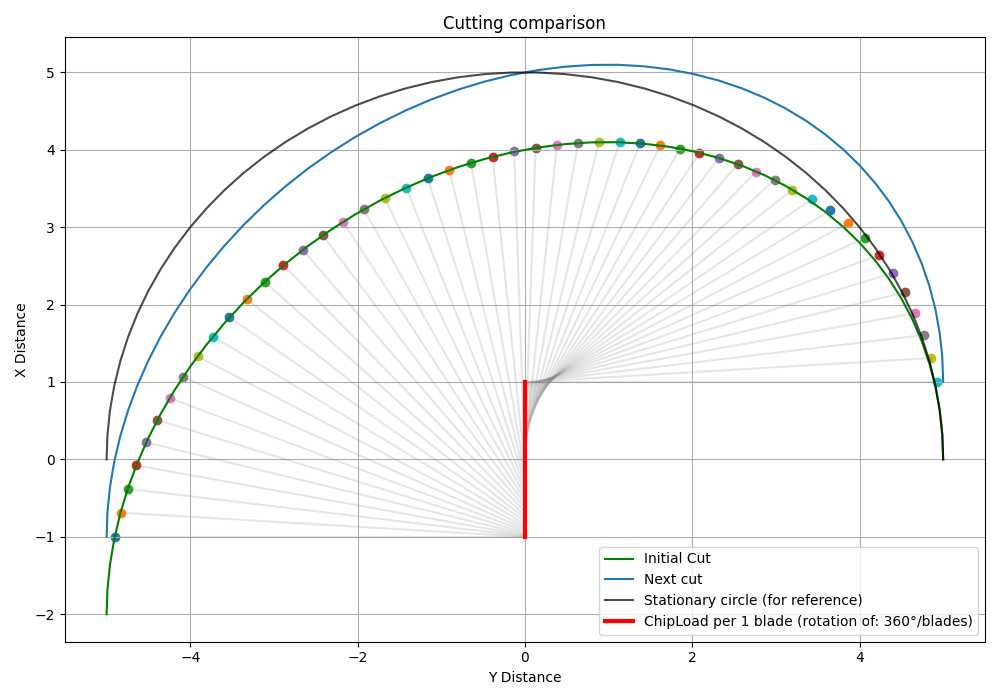
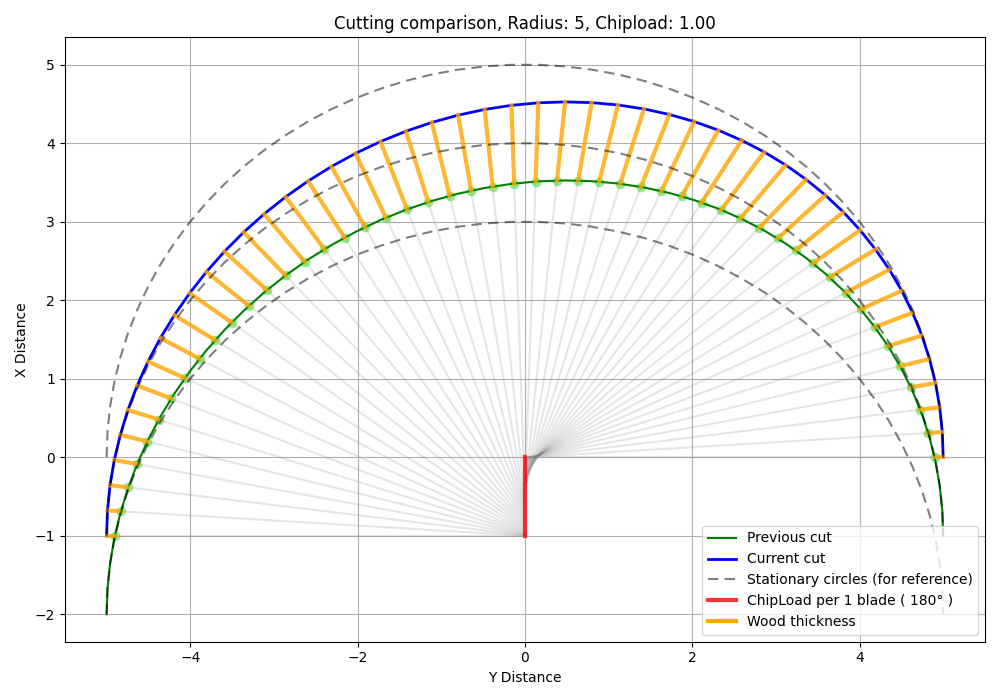
Fix numeric stability. More readable plots for cut model

diff --git a/CirclesOffset.py b/CirclesOffset.py
@@ -106,11 +106,13 @@ def CompareCirlceCost():
 
 def solve(r, ch, a, b, *, STEP=0.001, originX=None, wRad=None):
     if originX is None:
-        minR = np.sin(wRad - np.deg2rad(10)) * r
-        X = np.arange(minR, r + 0.001, STEP, dtype=np.double)
+        initR = np.sin(wRad) * r
+        first = np.clip(initR - 2 / r, -r, r)
+        end = np.clip(initR + 2 / r, -r, r)
+        X = np.arange(first, end, STEP, dtype=np.double)
     else:
         # print(f"Origin: {originX}")
-        X = np.linspace(originX - 2, originX + 2, 10000, dtype=np.double)
+        X = np.linspace(originX - r / 4.5, originX + r / 4.5, 20000, dtype=np.double)
         # X = np.linspace(originX - 1, originX +1, 200)
     # x2 = np.linspace(-90, 90, NUM)
     y1 = a * X + b
@@ -123,7 +125,10 @@ def solve(r, ch, a, b, *, STEP=0.001, originX=None, wRad=None):
 
     # x2 = np.sin(wRad) * r
     # wRad = np.arcsin(wRad)
-    y2 = np.cos(wRad) * r + np.sin(wRad) * ch - ch
+    Line1y = np.cos(wRad) * r + np.sin(wRad) * (ch / 2) - ch / 2 - ch
+    # y2 = np.cos(wRad) * r + np.sin(wRad) * ch - ch / 2
+    y2 = Line1y
+    # plt.scatter(wDeg / 90 * Radius, y2)
     diff = np.abs(y2 - y1).astype(float)
     diff[np.isnan(diff)] = r
     # plt.plot(wDeg)
@@ -145,13 +150,17 @@ def solve(r, ch, a, b, *, STEP=0.001, originX=None, wRad=None):
 
 
 def findCutDistance(wRad, radius, Chip):
-    "P2 is Above"
+    """"""
+    "P1 is previous cut"
+    "P2 is current cut"
     P2x = np.sin(wRad) * radius
-    P2y = np.cos(wRad) * radius + np.sin(wRad) * Chip
+    P2y = np.cos(wRad) * radius + np.sin(wRad) * (Chip / 2) - Chip / 2
+    # plt.scatter(P2x, P2y)
 
     "P0 is moving center"
     P0x = wRad * 0
-    P0y = np.sin(wRad) * Chip
+    # P0y = np.sin(wRad) * Chip / 2 - Chip / 2
+    P0y = (np.sin(wRad) - 1) * Chip / 2
     # plt.scatter(P0x, P0y)
     # plt.scatter(P2x, P2y)
     # plt.plot([P0x, P2x], [P0y, P2y], color='gray', alpha=0.5)
@@ -174,9 +183,10 @@ def findCutDistance(wRad, radius, Chip):
     # P1x = (P1y - b) / a
     P1x, P1y = solve(radius, Chip, a, b, wRad=wRad)
     plt.plot([P0x, P1x], [P0y, P1y], color='gray', alpha=0.2)
-    # P1x, P1y = solve(radius, Chip, a, b, originX=P1x)
-    plt.scatter(P1x, P1y)
-    # plt.plot([P0x, P1x], [P0y, P1y], color='green', alpha=0.2)
+    P1x, P1y = solve(radius, Chip, a, b, originX=P1x)
+
+    plt.scatter(P1x, P1y, color='lightgreen')
+    plt.plot([P1x, P2x], [P1y, P2y], color='orange', alpha=0.8, linewidth=3)
 
     dist = np.sqrt(np.pow(P1x - P2x, 2) + np.pow(P1y - P2y, 2))
     return dist
@@ -221,10 +231,10 @@ if __name__ == "__main__":
     "P1 Under"
     x = np.cos(wRad) * Radius
     # y = np.sin(wRad) * Radius + np.sin(np.pi / 2 - wRad) * Chip
-    y = np.sin(wRad) * Radius + np.cos(wRad) * Chip
+    y = np.sin(wRad) * Radius + np.cos(wRad) * (Chip / 2) - Chip / 2
     plt.figure(figsize=(10, 7))
-    plt.plot(x, y - Chip, color="green", label="Initial Cut")
-    plt.plot(x, y, label="Next cut")
+    plt.plot(x, y - Chip, color="green", label="Previous cut")
+    plt.plot(x, y, label="Current cut", color='blue', linewidth=2)
 
     wDeg = 60
     wRad = np.deg2rad(wDeg)
@@ -240,16 +250,25 @@ if __name__ == "__main__":
     XRad = np.deg2rad(XDeg)
     tempY = np.cos(XRad) * Radius
     tempX = np.sin(XRad) * Radius
-    plt.plot(tempX, tempY, label="Stationary circle (for reference)", color='black', alpha=0.7)
     plt.plot(
-        [0, 0], [-Chip, Chip], label="ChipLoad per 1 blade (rotation of: 360°/blades)",
-        linewidth=3, color='red'
+        tempX, tempY, color='black', alpha=0.5, dashes=[5, 3],
+        label="Stationary circles (for reference)"
+    )
+    plt.plot(tempX, tempY - Chip, color='black', alpha=0.5, dashes=[5, 3])
+    plt.plot(tempX, tempY - 2 * Chip, color='black', alpha=0.5, dashes=[5, 3])
+    plt.plot(
+        [0, 0], [-Chip, 0], label="ChipLoad per 1 blade ( 180° )",
+        linewidth=3, color='red', alpha=0.8
     )
     # plt.plot(XDeg / 90 * Radius, tempY + Chip, label="Cos function", alpha=0.7)
+    handles, labels = plt.gca().get_legend_handles_labels()
+    newLine = Line2D([0, 0], [0, 1], color='orange', alpha=1, linewidth=3)
+    handles.append(newLine)
+    labels.append("Wood thickness")
 
     plt.grid(True)
-    plt.legend()
-    plt.title("Cutting comparison")
+    plt.legend(handles=handles, labels=labels, loc='lower right')
+    plt.title(f"Cutting comparison, Radius: {Radius}, Chipload: {Chip:<2.2f}")
     plt.xlabel("Y Distance")
     plt.ylabel("X Distance")
     plt.tight_layout()
@@ -258,11 +277,11 @@ if __name__ == "__main__":
     ""
     # plt.close("all")
     plt.figure()
-    Y = moving_average(Y, 5, "keep")
-    plt.plot(XDeg, Y, label="Moving cutters approximation", color='green', linewidth=3)
+    # Y = moving_average(Y, 5, "keep")
+    plt.plot(XDeg, Y, label="Moving cutter approximation", color='green', linewidth=3)
 
     XRad = np.deg2rad(XDeg)
-    tempY = np.cos(XRad)  # + np.sin(XRad) * Chip
+    tempY = np.cos(XRad) * Chip  # + np.sin(XRad) * Chip
     plt.plot(XDeg, tempY, color='blue', label="Cos function", alpha=0.5)
     up = 0.05
     center = 0.05
@@ -290,7 +309,7 @@ if __name__ == "__main__":
     # plt.close("all")
 
     plt.grid(True)
-    plt.title("Model engagement comparison")
+    plt.title(f"Model engagement comparison. Chipload: {Chip:<2.2f}")
     plt.xlabel("Degrees")
     plt.tight_layout()
     plt.show()
